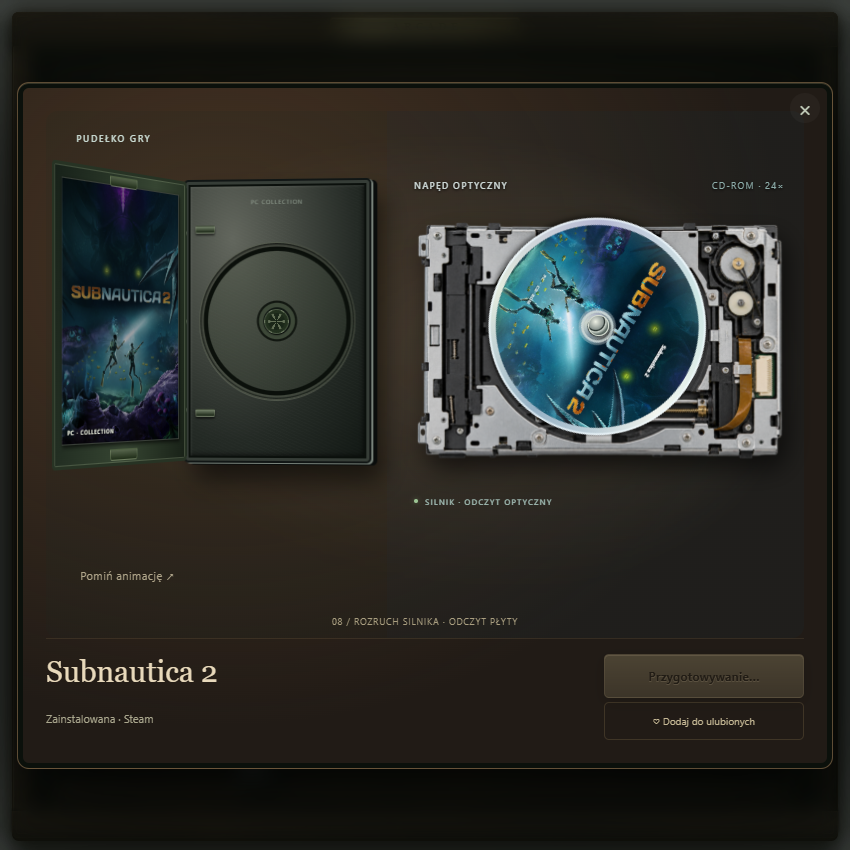
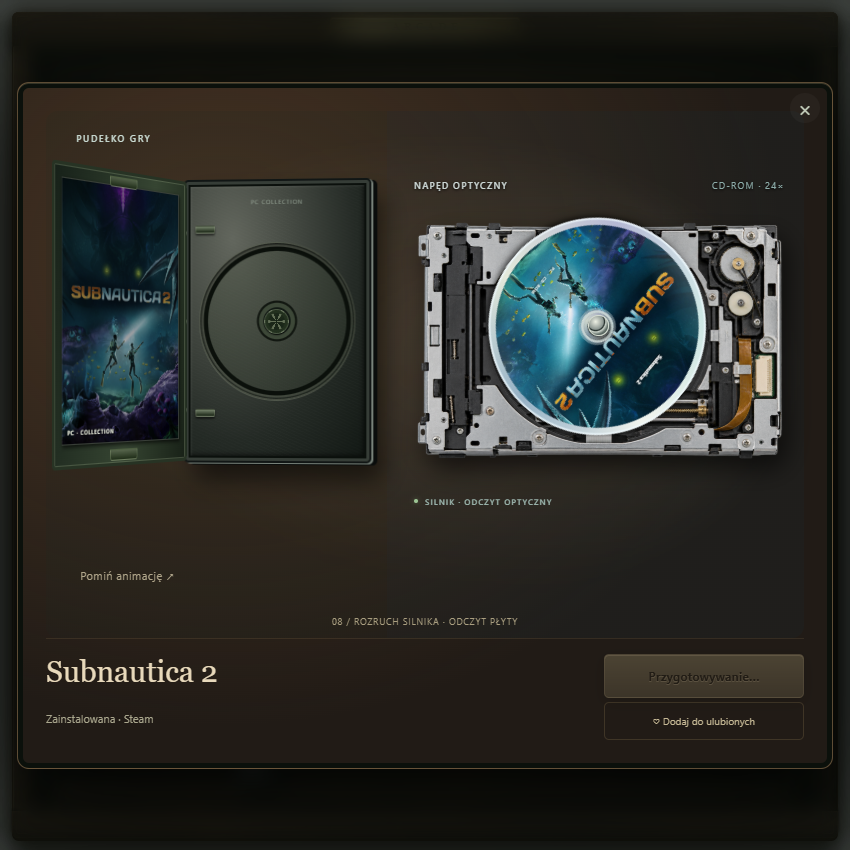
Document ARCADE 0.6.9 top loading disc animation

diff --git a/README.md b/README.md
@@ -19,6 +19,12 @@ ARCADE zamienia listę gier w przestrzenną kolekcję pudełek na półkach. Ust
 
 <img src="docs/screenshots/gaming.png" alt="Widget ARCADE w motywie Gaming Night Shift — ciemna szafka, podświetlenie i pudełka gier Steam" width="650">
 
+## 0.6.9 — wkładanie płyty od góry
+
+- Usunięto szufladkę napędu.
+- Płyta unosi się z pudełka, ustawia nad napędem i delikatnie opada na trzpień.
+- Osadzenie i docisk poprzedzają rozruch silnika; zachowano nadruk wybranej gry.
+
 ## 0.6.8 — duże pudełko i napęd
 
 - Usunięto grafikę komputera z animacji uruchamiania gry.
@@ -80,7 +86,7 @@ Na półce pozostaje jeden widok: **grzbiety z tytułami**. Widok okładek przod
 
 ## Nowości w 0.4.0: instalator, Aurora Circuit i naturalniejszy chód
 
-Pobierz **ARCADE-Setup-0.6.8-win-x64.exe** z najnowszego wydania. Polski instalator dodaje skróty i wpis do odinstalowania; nie wymaga konta administratora. Opcjonalnie włącza start z Windows.
+Pobierz **ARCADE-Setup-0.6.9-win-x64.exe** z najnowszego wydania. Polski instalator dodaje skróty i wpis do odinstalowania; nie wymaga konta administratora. Opcjonalnie włącza start z Windows.
 
 **Aurora Circuit** to czwarty motyw: ruchome światło zorzy, delikatne cząsteczki, obwody oraz sygnały LED na półkach. Włączysz go przez **ikonę obok zegara → Motyw graficzny → Animowany · Aurora Circuit**. Animacje respektują systemowe ograniczenie ruchu i pauzują po ukryciu okna.
 
@@ -113,12 +119,12 @@ Kot, szczur, fretka i gekon. Wybór: **ikona obok zegara → Pet na półce**.
 
 ## Pobierz i uruchom
 
-1. Przejdź do **[Releases](https://github.com/codewojcik-arch/arcade-game-shelf/releases/latest)** i pobierz **ARCADE-Setup-0.6.8-win-x64.exe**.
+1. Przejdź do **[Releases](https://github.com/codewojcik-arch/arcade-game-shelf/releases/latest)** i pobierz **ARCADE-Setup-0.6.9-win-x64.exe**.
 2. Uruchom instalator, wybierz folder i opcjonalne skróty oraz autostart.
 3. Po instalacji uruchom **ARCADE** z menu Start lub pulpitu.
 4. Ustawienia, motywy, pety i zamknięcie znajdziesz pod ikoną obok zegara Windows.
 
-Alternatywnie pobierz **ARCADE-0.6.8-win-x64.zip**, wypakuj cały folder i uruchom ARCADE.exe. Samo EXE wymaga pozostałych plików paczki. Instalator zachowuje lokalny folder cache podczas aktualizacji i odinstalowania; może zawierać ustawienia oraz zapisane połączenie Steam. Możesz usunąć ten folder samodzielnie po odinstalowaniu.
+Alternatywnie pobierz **ARCADE-0.6.9-win-x64.zip**, wypakuj cały folder i uruchom ARCADE.exe. Samo EXE wymaga pozostałych plików paczki. Instalator zachowuje lokalny folder cache podczas aktualizacji i odinstalowania; może zawierać ustawienia oraz zapisane połączenie Steam. Możesz usunąć ten folder samodzielnie po odinstalowaniu.
 
 **Wymagania:** Windows 10/11 64-bit, Steam i internet do pobrania okładek. Runtime jest dołączony — nie instalujesz osobno Node.js. Okna Full HD, 1440p i 4K są objęte testami układu. Instalator nie ma jeszcze komercyjnego podpisu cyfrowego; Windows może pokazać nieznanego wydawcę. Pobieraj z oficjalnego repozytorium.
 

diff --git a/CHANGELOG.md b/CHANGELOG.md
@@ -1,5 +1,11 @@
 # Historia zmian
 
+## 0.6.9 — wkładanie płyty od góry
+
+- Usunięto szufladkę napędu.
+- Płyta unosi się z pudełka, ustawia nad napędem i delikatnie opada na trzpień.
+- Osadzenie i docisk poprzedzają rozruch silnika; zachowano nadruk wybranej gry.
+
 ## 0.6.8 — duże pudełko i napęd
 
 - Usunięto grafikę komputera z animacji uruchamiania gry.
